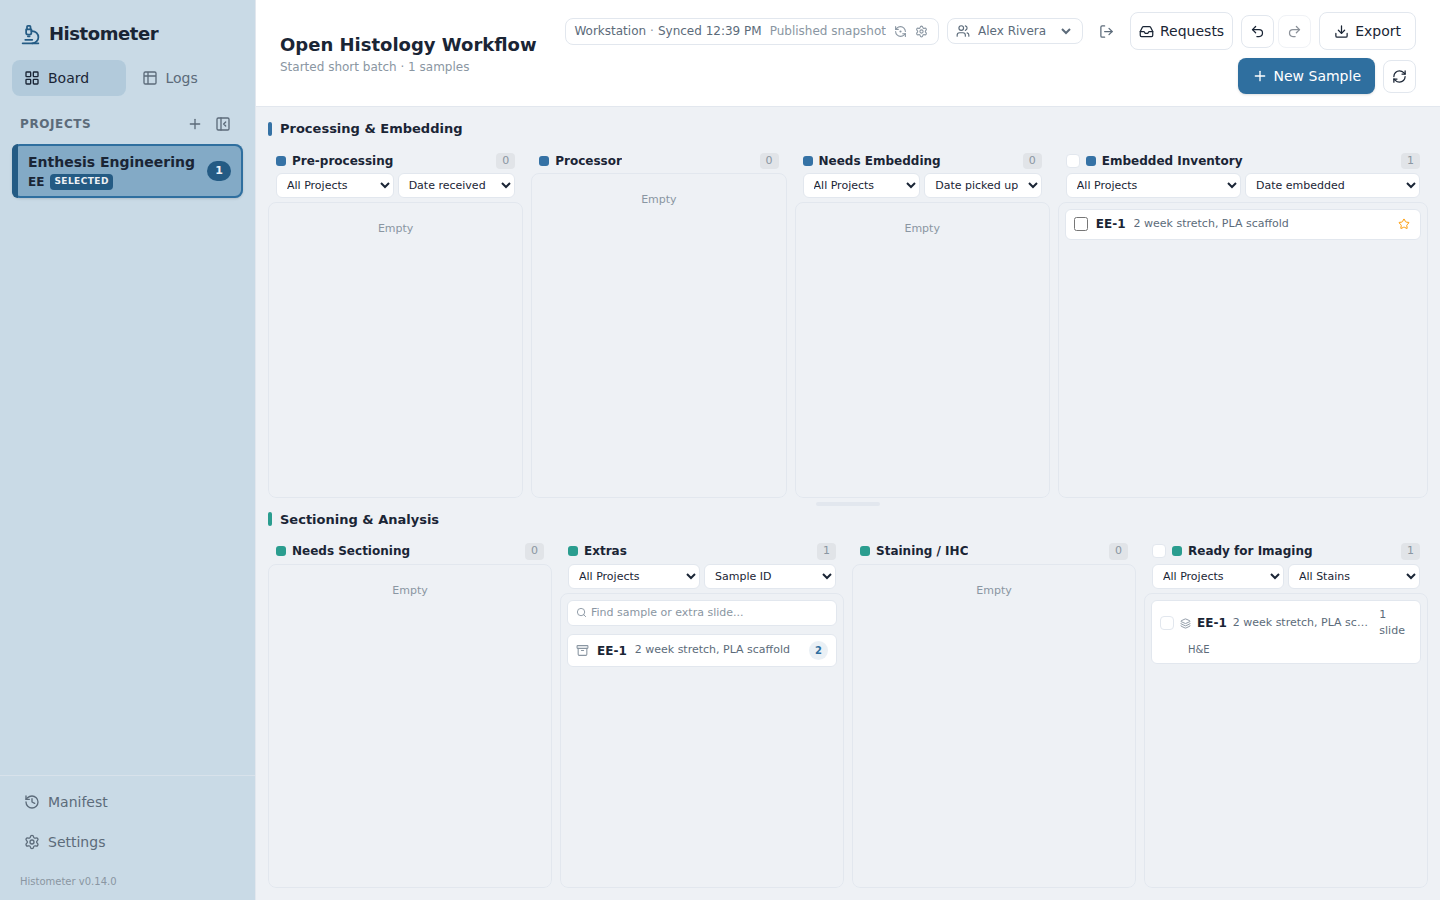
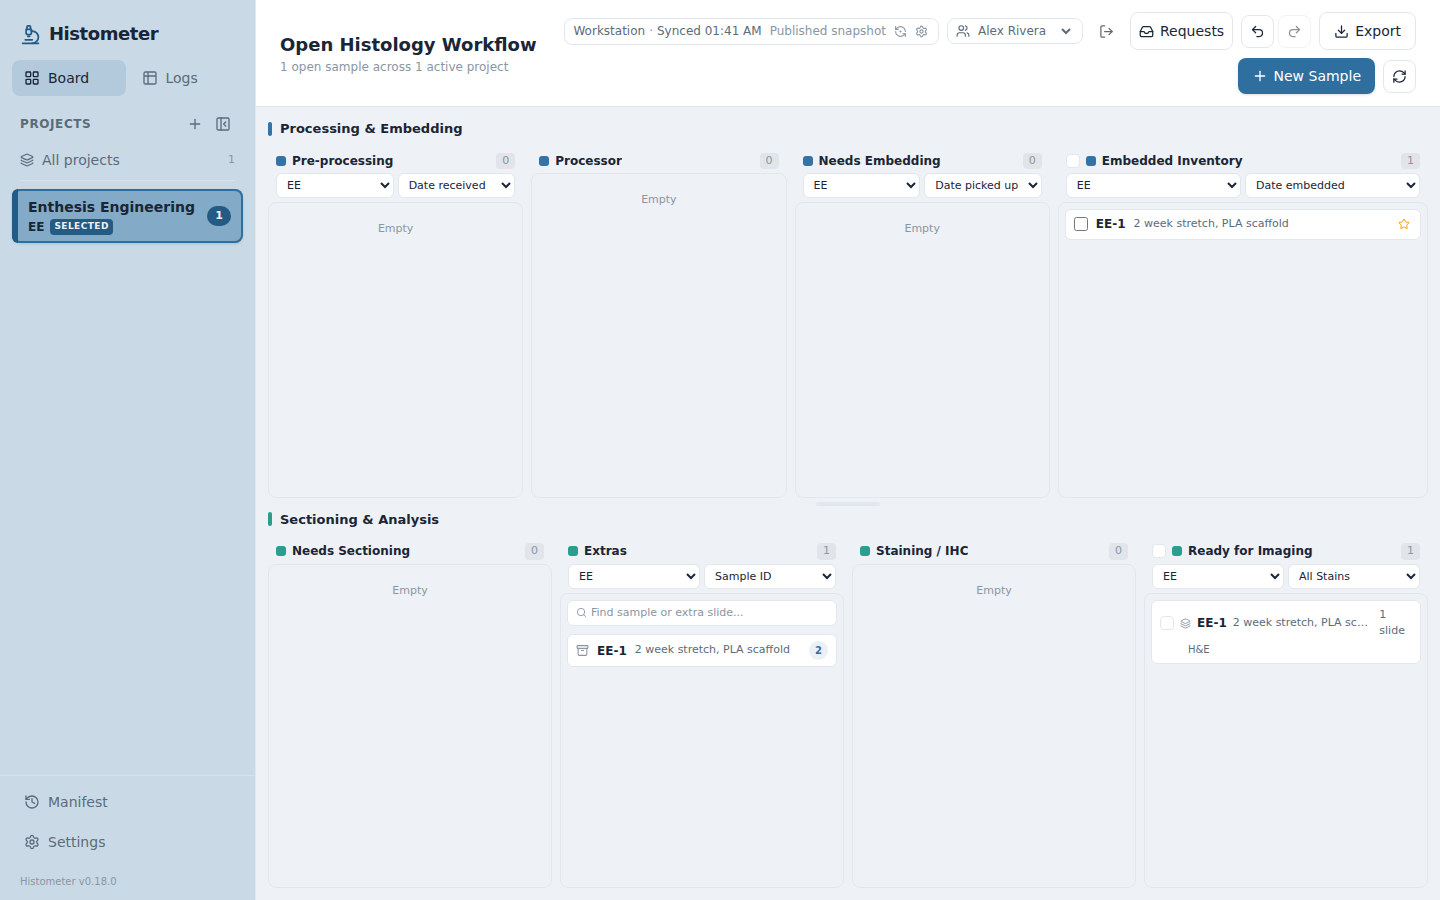
docs: the tutorial at 0.18.0, as the union looks
The tutorial screenshots PR 138 committed read "Histometer v0.14.0", a
version its branch declared for a few commits (0a48a25) and then dropped.
That label is what first showed master and the installed build had
diverged. Regenerated from tests/tutorial/showcase.spec.ts on the union,
they read v0.18.0 and show what 0.14.0 to 0.17.0 changed: the All projects
row and the selected project filtering the board (#131), the project
picker in New Sample (#132), no Operator box on a rack (#127), and the
Logs selection bar's reassign and remove (#133).

The prose follows the pictures. Manage, Backups and the theme picker live
under Settings (since 0.8.0); nothing can be changed until somebody is
signed in (#128); the rack protocol is Stained then Coverslipped (Dried was
retired before 0.13.2); and Settings can build a custom theme (0.17.0).

Three things in these pictures look wrong and are left as they are,
because they are the app as it ships and fixing them belongs in its own
change: the stain rack card clips its "1 slide" pill since rack numbers
were added (0.14.0), the processing batch dialog says "1 selected samples"
and shows the stored code EE-0001, and "Back up now" wraps onto two lines.

diff --git a/docs/tutorial/README.md b/docs/tutorial/README.md
@@ -19,14 +19,17 @@ workflow. The top lane is *Processing & Embedding*; the bottom lane is
 
 ![Empty board](img/01-board-empty.png)
 
-Top‑right you'll find the signed‑in user, **Manage**, **Backups**, **Requests**,
-the theme picker, **undo/redo**, **Export**, and **New Sample**. The current app
-version is shown at the bottom of the sidebar.
+Top‑right you'll find the signed‑in user, **Requests**, **undo/redo**,
+**Export** and **New Sample**. **Manage**, **Backups** and the theme picker are
+under **Settings** at the foot of the sidebar, which also shows the current app
+version.
 
 ## 2. Set up people, projects and stains
 
-Open **Manage** to add lab users, projects and the stain/IHC catalog. Add
-yourself and sign in — actions are attributed to the signed‑in user.
+Open **Manage** (under **Settings**) to add lab users, projects and the
+stain/IHC catalog. Add yourself and sign in: the board can be read by anyone,
+but nothing can be changed until somebody is signed in, and every change is
+recorded against that person.
 
 ![Manage dialog](img/02-manage.png)
 
@@ -38,7 +41,8 @@ exports.
 
 ## 3. Log a sample
 
-**New Sample** records a block: description, processing type (Short/Long),
+**New Sample** records a block: the project it belongs to (asked only when the
+lab has more than one), description, processing type (Short/Long),
 fixative, whether it needs decalcification, **embedding notes** for whoever
 picks up the mould (how it should be oriented, whether it is bisected), and any
 stains you already know you want. It lands in **Pre‑processing**.
@@ -97,9 +101,10 @@ The cut appears in **Needs Sectioning**. The tile shows a compact tally, e.g.
 ## 7. Staining protocol
 
 Open the Needs Sectioning card and **Mark Sectioned**. Slides carrying a stain
-form a **rack** in *Staining / IHC*; extras drop into inventory. Open a rack,
-enter the operator, and tick off the protocol steps (**Stained → Coverslipped →
-Dried**). Finishing the last step advances the slides to *Ready for Imaging*.
+form a **rack** in *Staining / IHC*; extras drop into inventory. Open a rack and
+tick off the protocol steps (**Stained → Coverslipped**); each step is recorded
+against the signed‑in user. Finishing the last step advances the slides
+to *Ready for Imaging*.
 
 ![Staining protocol](img/12-staining-protocol.png)
 
@@ -124,7 +129,8 @@ condensed timeline and notes.
 ## 9. Depth tagging (optional)
 
 Depth tags are a **low‑effort, relative** way to group slides — nothing requires
-them. Tick the slides that belong together; a bar appears.
+them. Tick the slides that belong together; a bar appears. The same bar can
+also reassign the ticked slides to another agent or remove them, with a reason.
 
 ![Select slides](img/15-logs-slides-selected.png)
 
@@ -174,7 +180,8 @@ time — a revert first takes a safety backup, so it's itself reversible.
 
 - **Undo / redo** (Ctrl+Z / Ctrl+Y, or the toolbar arrows) revert whole actions —
   moves, cuts, protocol steps, tags — one step at a time.
-- **Themes** — the palette picker in the header offers many light and dark themes.
+- **Themes** live under **Settings**: many light and dark ones, and **Customize
+  colours…** to build your own while the board repaints behind it.
 - **Sync** — a workstation can publish its database to a private repo that
   read‑only **viewer** installs pull from; viewers can submit stain requests back.
   All instances must run the same version.
